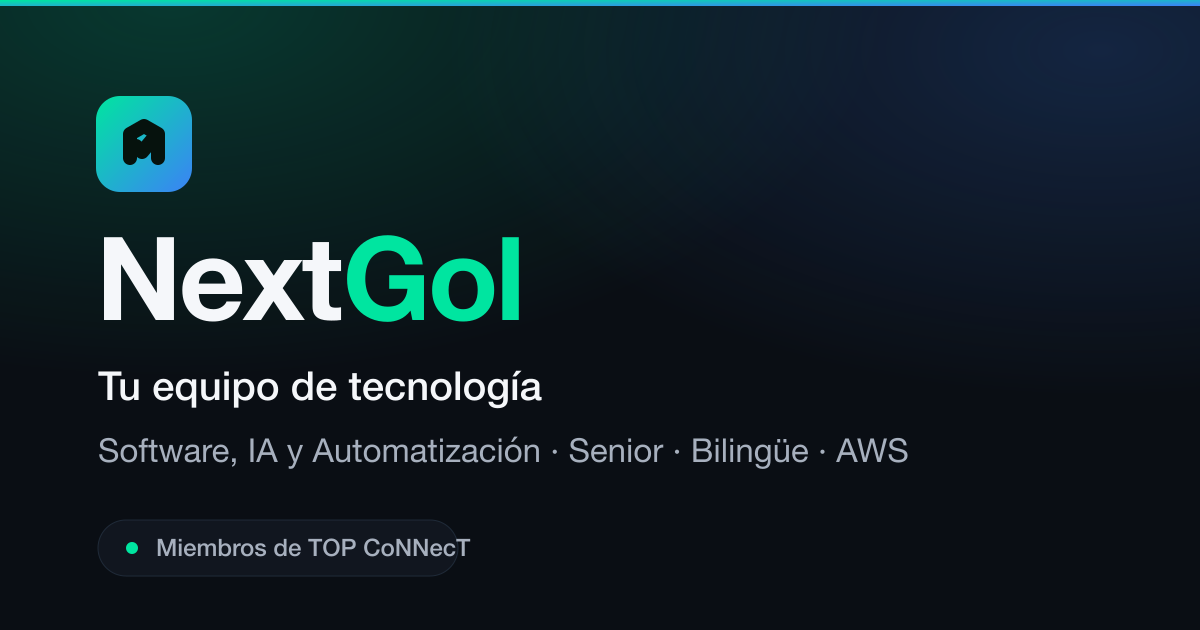
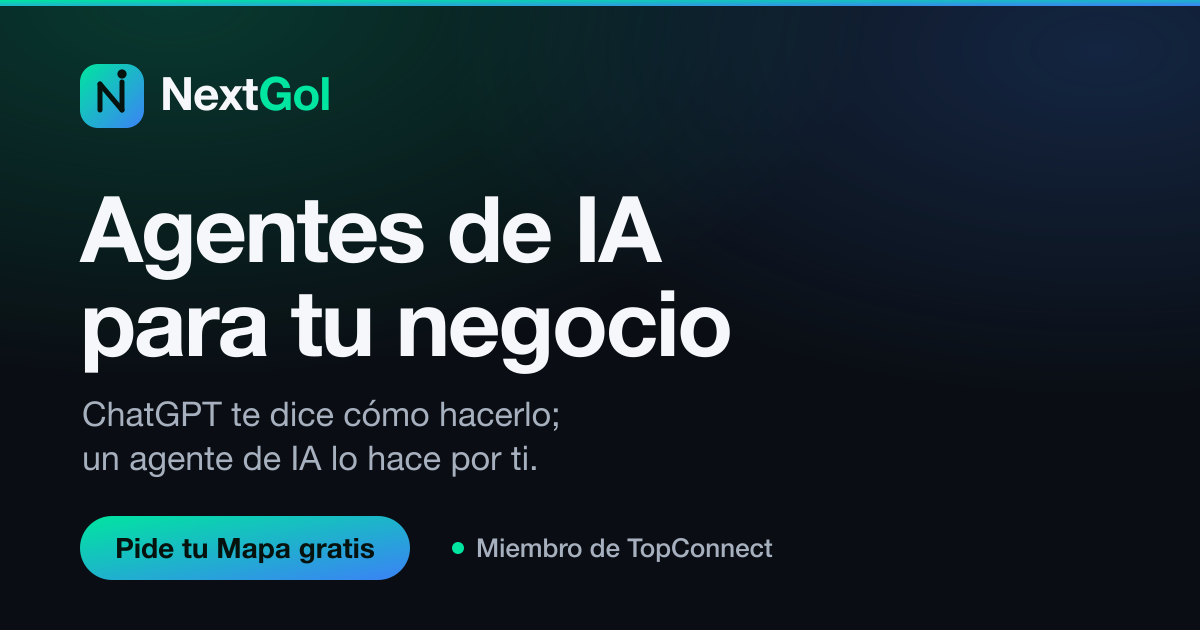
feat: share previews, structured data and es-only indexing
- New title, description, OG/Twitter tags and og:locale es_US.
- Regenerated OG image with the new message and the nav logo.
- JSON-LD: Organization with founder, sameAs and contactPoint, a single
  AI agents service with the free Mapa offer, FAQPage from the new FAQ.
- Rewrite llms.txt with the current positioning.
- /en/ temporarily redirects (302) to / and leaves the sitemap and
  hreflang until the English rewrite.
- Optional Umami analytics, emitted only when a website ID is set.
- apple-touch-icon PNG and raster logo for the schema.
- docs/utm-links.md with the shareable link per channel.

Changed region(s): [[0.0617, 0.0905, 0.7708, 0.754], [0.0617, 0.8143, 0.6475, 0.9349]]

diff --git a/docs/utm-links.md b/docs/utm-links.md
@@ -1,0 +1,33 @@
+# Links con UTM por canal
+
+La landing lee `utm_source`, lo guarda en `sessionStorage` y reescribe todos los botones de WhatsApp para que el mensaje precargado diga de dónde vienes. Cualquier `utm_source` desconocido o ausente cae en `direct`. Sin JavaScript, el mensaje es el de TopConnect.
+
+| Canal | URL | Mensaje de WhatsApp resultante |
+|---|---|---|
+| TopConnect (QR, grupo, bio) | `https://nextgol.com/?utm_source=topconnect&utm_medium=community&utm_campaign=mapa-2026-10` | Hola, vengo de TopConnect. Quiero mi MAPA |
+| LinkedIn | `https://nextgol.com/?utm_source=linkedin&utm_medium=social&utm_campaign=mapa-2026-10` | Hola, vengo de LinkedIn. Quiero mi MAPA |
+| Correo | `https://nextgol.com/?utm_source=email&utm_medium=email&utm_campaign=mapa-2026-10` | Hola, vengo por correo. Quiero mi MAPA |
+| Sin UTM (directo) | `https://nextgol.com/` | Hola, vi la página de NextGol. Quiero mi MAPA |
+
+## QR de TopConnect: link directo a WhatsApp
+
+Para un QR que salta la landing y abre WhatsApp con el mensaje de TopConnect (valor de `waLink("topconnect")`):
+
+```
+https://wa.me/573219265622?text=Hola%2C%20vengo%20de%20TopConnect.%20Quiero%20mi%20MAPA
+```
+
+Este link no pasa por la landing, así que no genera visita ni evento en Umami. Si quieres medir el QR, usa el link con UTM de la primera fila.
+
+## Eventos en Umami
+
+Cada CTA envía un evento con el nombre `cta_<tipo>`:
+
+- `cta_whatsapp`, `cta_booking`, `cta_email`, `cta_linkedin`
+
+Propiedades de cada evento:
+
+- `location`: `nav`, `hero`, `offer`, `sticky`, `fab`, `final`, `footer` o `founder` (dónde estaba el botón).
+- `source`: `topconnect`, `linkedin`, `email` o `direct`.
+
+Los eventos solo se registran cuando `CONFIG.UMAMI_WEBSITE_ID` tiene valor.
